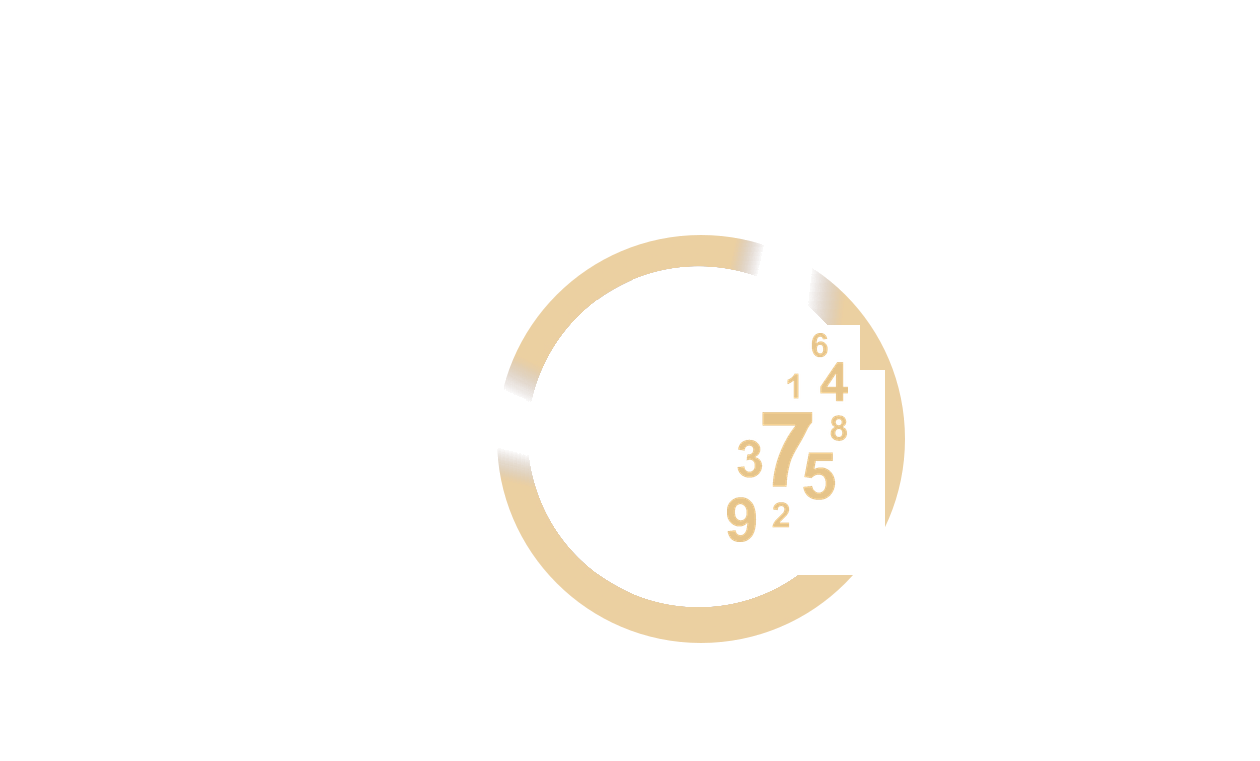
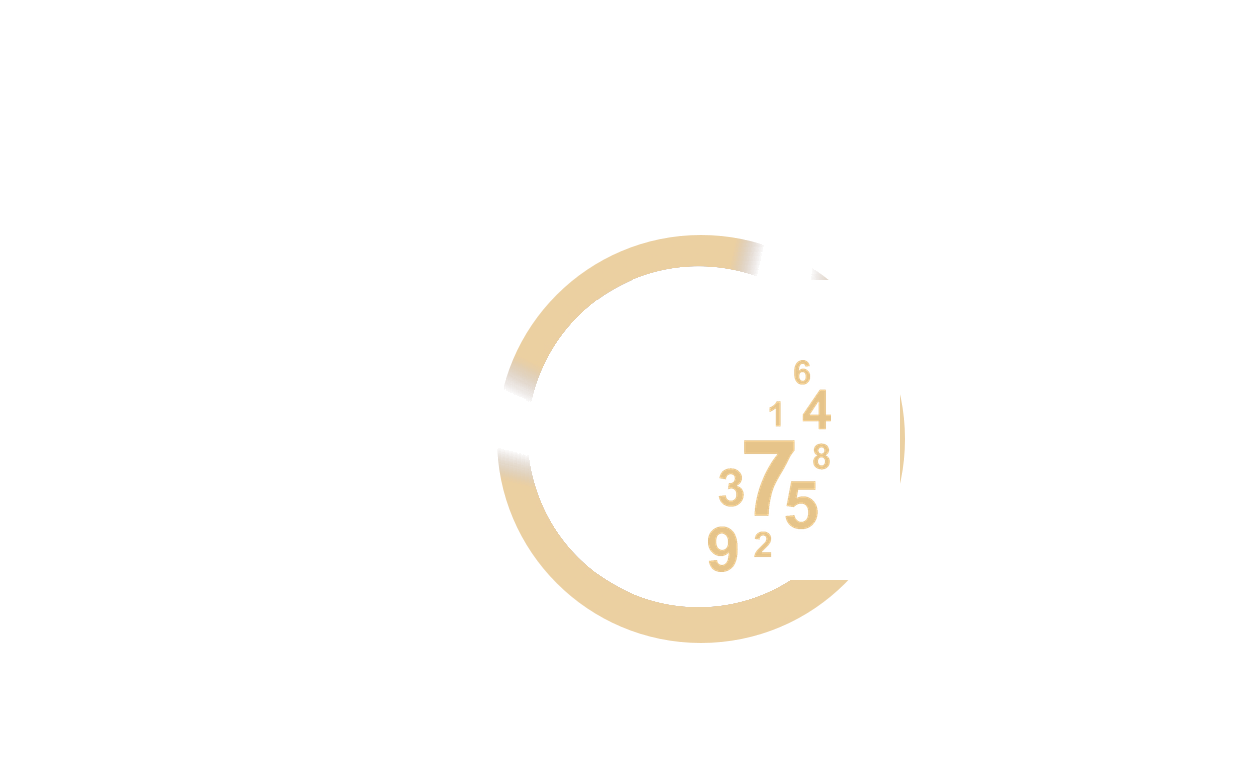
Kolo Karmy: kalibruje pudelko numerologii z pelnego wzorcowego wykresu
Poprzednie proby (przesuwanie, margines, "na oko" z przycietych zrzutow)
byly zgadywaniem i dawaly bledne wyniki (raz za male, raz kolidujace z
pierscieniem). Poprawna metoda: public/brand/nowa-numerologia.jpg to
PELNY wzorcowy wykres kola z cyframi juz osadzonymi na wlasciwym miejscu —
policzona precyzyjna transformacja (skala+przesuniecie X/Y) z polozenia
ikony klepsydry jako punktu odniesienia (identycznego w obu plikach:
34x44px we wzorze = 33x43px tutaj, skala ~0.97), zweryfikowana osobno dla
kazdej z 9 cyfr wzgledem rzeczywistej krawedzi platka (skan kanalu alfa).
Docelowe pudelko [708,360,831,572] — jego proporcja (0.580) niemal
idealnie zgadza sie z naturalna proporcja wyciete tresci (0.581), wiec
"contain" fit wypelnia je bez zbednych marginesow.

Zweryfikowane bezposrednim porownaniem kadru z live-screenshota i ze
wzorca w tej samej skali — ukladt cyfr (6/1/4/8/7/3/5/9/2) pokrywa sie.

Changed region(s): [[0.5571, 0.3627, 0.7119, 0.7556], [0.619, 0.7556, 0.681, 0.7858]]

diff --git a/components/KoloKarmy.tsx b/components/KoloKarmy.tsx
@@ -101,11 +101,14 @@ const SATELITY_BAZA = [
 // przez <MoonStars> (osobny puls, patrz aktywny === "astrologia" niżej).
 const PIKTOGRAMY_PULSUJACE = [
   { id: "hiromancja", box: [340, 385, 490, 555] as const },
-  // Powiekszone i wyosiowane (2026-09-26): nowa ikona ma 9 cyfr rozlozonych
-  // szerzej niz stara (4 cyfry) — pudelko dopasowane do rzeczywistego
-  // ksztaltu platka numerologii (zmierzone siatka wspolrzednych na grafice),
-  // centrowane w najszerszym miejscu miedzy klepsydra "kiedy" a pierscieniem.
-  { id: "numerologia", box: [715, 325, 860, 550] as const },
+  // Skalibrowane (2026-09-26) wprost z public/brand/nowa-numerologia.jpg —
+  // pelny wzorcowy wykres kola z cyframi juz osadzonymi na wlasciwym miejscu.
+  // Transformacja wyliczona z polozenia ikony klepsydry (znany punkt
+  // odniesienia w obu ukladach wspolrzednych: 34x44px we wzorze = 33x43px
+  // tutaj, skala ~0.97, prawie 1:1) i zweryfikowana osobno dla kazdej z 9
+  // cyfr wzgledem rzeczywistej krawedzi platka (skan kanalu alfa wiersz po
+  // wierszu) — zaden budzil watpliwosci wczesniejszych probach "na oko".
+  { id: "numerologia", box: [708, 360, 831, 572] as const },
 ];
 
 function pctX(v: number) { return `${(v / IMG_W) * 100}%`; }
